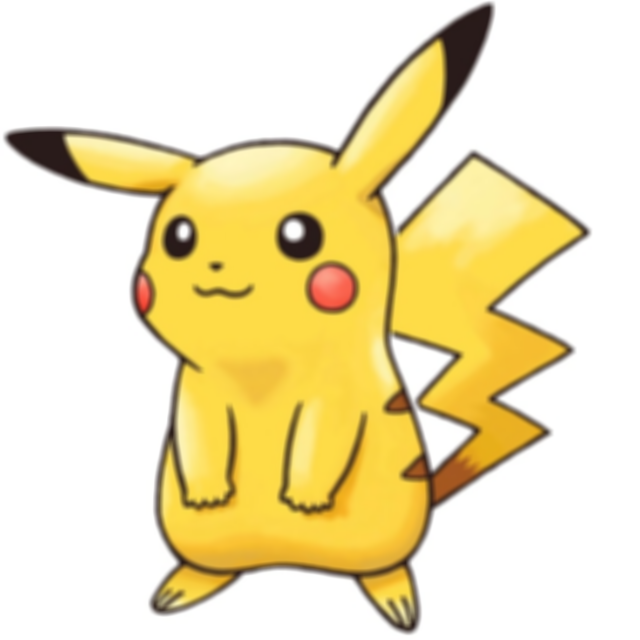
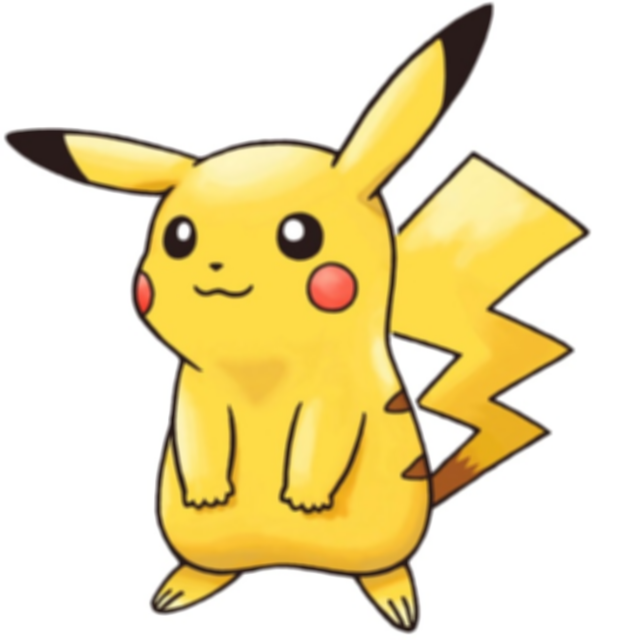
halting it for some time

diff --git a/Image Processing/pokemon/image.py b/Image Processing/pokemon/image.py
@@ -3,7 +3,9 @@ from PIL import Image, ImageFilter
 
 img = Image.open(r'.\Image Processing\pokemon\imgs\pikachu.jpg')
 filtered_img = img.filter(ImageFilter.BLUR)
-filtered_img2 = img.filter(ImageFilter.BoxBlur(radius=3))
+filtered_img2 = img.filter(ImageFilter.BoxBlur(radius=1.9))
 
 filtered_img.save(r".\Image Processing\pokemon\processed\blur.png", 'png')
 filtered_img2.save(r"Image Processing\pokemon\processed\boxblur.png", 'png')
+filtered_img3 = filtered_img2.rotate(angle=90.0)
+filtered_img3.save(r"Image Processing\pokemon\processed\rotate.png", 'png')
